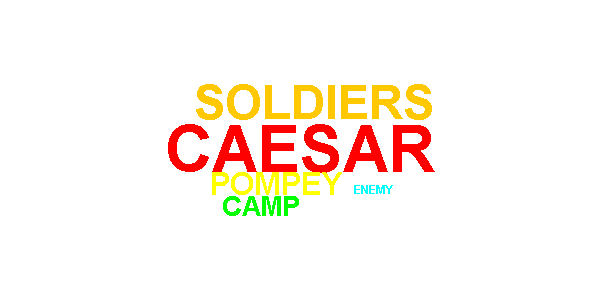
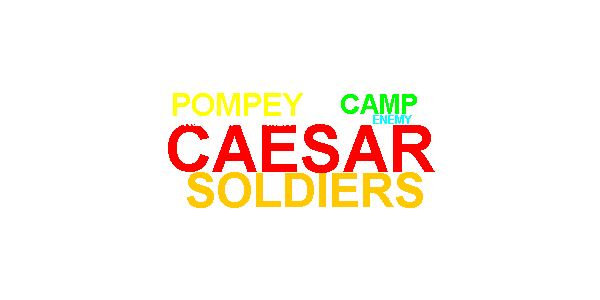
+big_O finished

Changed region(s): [[0.27, 0.27, 0.72, 0.42], [0.3, 0.57, 0.72, 0.72]]

diff --git a/Runner.java b/Runner.java
@@ -1,38 +1,35 @@
+/*
+Author: Eoin Wilkie
+Class information:
+    Runner class contains the main method for the program.
+    Contain a HashMap which is assigned values from the FileInfo Class, this Map will then be reduced in size to the users requested word cloud size.
+    This array is then passed through the WordCloudCreator Class to create the word cloud.
+*/
+
+//ADD PACKAGE HERE
+
 import java.util.Map.Entry;
-
 import java.util.Map;
+import java.util.HashMap;
 
-public class HelloWorld{
+public class Runner{
     public static void main(String[] args){
-        System.out.println("HelloWorld");
-
-
-        java.util.Map<String, Integer> frequencyTable = new java.util.HashMap<String, Integer>();
-
+        int i = 0;
+        Map<String, Integer> frequencyTable = new HashMap<String, Integer>();
         WordCloudCreator wcg;
         WCGmenu menu = new WCGmenu();
-        //menu.displayMenu();
-        menu.displayTestMenu();
+        
+        //menu.displayTestMenu();
+        menu.displayMenu();
+
+        Word[] words = new Word[menu.maxWords];
 
         FileInfo file = new FileInfo(menu.getFileIn(), TableFunctions.getFullTable(frequencyTable));
         frequencyTable = TableFunctions.getFullTable(frequencyTable);
         file.readFile();
-        //menu.frequencyTable = menu.getShortTable();
-        frequencyTable = TableFunctions.sortTable(frequencyTable);
+        //frequencyTable = TableFunctions.sortTable(frequencyTable);
         frequencyTable = TableFunctions.getShortTable(frequencyTable, menu.getMaxWords());
 
-        //can convert String map to <Word, Integer> map, to carry weight for img creation
-        //wordCount will no longer be required, but weight will be. Weight algorithm can be placed elsewhere.
-
-        //used to determine which % the word should fall into
-        //eg: index 0 is highest, will be assigned size/color to match
-        int i = 0;
-
-        Word[] words = new Word[menu.maxWords];
-        
-        //requires test and ? fix
-
-        
             //Big-O running time: O(1) 
             //It is my understanding that 0(1) represents a constant value, where as 0(n) represenst the number of elements in a structure
             //This floop will run as many times as was input by the user at the menu screen, which is significantly less than the frequencyTables elements

diff --git a/Word.java b/Word.java
@@ -1,5 +1,19 @@
-import java.awt.*;
+/*
+Author: Eoin Wilkie
+Class information:
+    Words are converted to Word Class objections before being placed on the word cloud, this class calculates a weight value for the word within the word cloud,
+    which determine the size the word will display on the word cloud. It also creates a Font for the image, which is the image placed on the word cloud.
+    Font metrics are also calculated which are used to determine the size ofthe image, this is used within the collisionCheck method ensure that words on the word cloud do not overlap.
 
+    Note: factor function is used to determine the word sizes on the word cloud, this divides the words into a number between 1-5, 5 being the largest.
+        Factor value is based on the highWordCount, if the change in factor from 1 word to the next is too large, the highWordCount will be assigned the value of the
+        first of these 2 words for further calculations, this ensures there should be representation in each of the values and the words will gradually descend in value
+        as opposed to having 1 large word and the rest of the words all being the minimun size available.
+*/
+
+//ADD PACKAGE HERE
+
+import java.awt.*;
 
     //Big-O running time: O(1)
     //All functions here are manipulating one object, using the variables of that object in some capacity, there is no loops

diff --git a/WordCloudCreator.java b/WordCloudCreator.java
@@ -1,3 +1,13 @@
+/*
+Author: Eoin Wilkie
+Class information:
+    This class generates the word cloud from the Word[] with methods from the ImgPlacement Class.
+*/
+//*NOTE* Still some work to do here to ensure the program will run under some additional situations which may break it
+    //such as when too many words are added to the word cloud.
+
+//ADD PACKAGE HERE
+
 import java.awt.*;
 import java.awt.image.*;
 import javax.imageio.*;
@@ -12,6 +22,7 @@ public class WordCloudCreator {
     private static boolean first = true;
     private static boolean firstFill = false;
     private static boolean secondFill = false;
+    private static boolean endCheck = false;
 
     private Point imgSize = new Point(sizeX, sizeY);
     private Point point;
@@ -49,7 +60,7 @@ public class WordCloudCreator {
                     //System.out.println(words[i].collisionCheck(words[j]));  //should say true
 
                     if (words[i].collisionCheck(words[j])){
-                        fillCheck++;
+                        if(secondFill == false) fillCheck++;
                         collision = true;
                         //System.out.println("Reloop");
                         break;

diff --git a/ParserFile.java b/ParserFile.java
@@ -1,3 +1,13 @@
+/*
+Author: Eoin Wilkie
+Class information:
+    Implements Parser. Used to parse files. Words are filterd by the following:
+        ragex: "[\\p{Punct}\\s]+", the ignore list obtained from the IgnoreWords Class and by size, anything words which contain less than 2 characters are eliminated.
+    File is read and words are added to a Map, if the Map contains the word then the value is incremented.
+*/
+
+//ADD PACKAGE HERE
+
 import java.io.BufferedReader;
 import java.io.FileReader;
 import java.io.FileNotFoundException;
@@ -16,7 +26,7 @@ public class ParserFile implements Parser{
         //as for the file reading, it starts at the begining and moved to the end inspecting each character element along the way
     public  void parse(String fileIn, Map<String, Integer> frequencyTable){
         String[] words;     //unsure if a different data structure will improve this, the word[] must start at begining and iterate over each element
-        String delimiters = "[\\p{Punct}\\s\\n]+";
+        String delimiters = "[\\p{Punct}\\s]+";
         
 		Set<String> ignoreWords = new IgnoreWords("ignorewords.txt").getIgnoreWords();
 		String line;

diff --git a/IgnoreWords.java b/IgnoreWords.java
@@ -1,3 +1,11 @@
+/*
+Author: Eoin Wilkie
+Class information:
+    This class creates the list of ignore words. Values are assigned to a TreeSet, values are read from a file and set to upper case.
+*/
+
+//ADD PACKAGE HERE
+
 import java.io.BufferedReader;
 import java.io.FileReader;
 import java.io.FileNotFoundException;
@@ -38,6 +46,7 @@ public final class IgnoreWords{
         try {
             br = new BufferedReader(new FileReader(this.getIgnoreFile()));
 
+            //while ((line = br.readLine()) != null) {
             while ((line = br.readLine()) != null) {
                 sbIgnoreWords.setLength(0);
                 sbIgnoreWords.append(line.toUpperCase()); 

diff --git a/ParserHtml.java b/ParserHtml.java
@@ -1,3 +1,13 @@
+/*
+Author: Eoin Wilkie
+Class information:
+    Implements Parser. Used to parse websites. Words are filterd by the following:
+        ragex: tagsTable/StringBuilder tags, the ignore list obtained from the IgnoreWords Class.
+    File is read and words are added to a Map, if the Map contains the word then the value is incremented.
+*/
+
+//ADD PACKAGE HERE
+
 import java.util.Map;
 import java.io.BufferedReader;
 import java.io.InputStreamReader;

diff --git a/TableFunctions.java b/TableFunctions.java
@@ -1,3 +1,12 @@
+/*
+Author: Eoin Wilkie
+Class information:
+    This class contains functions to manipulate the data held in a Map<String, Integer> in order to return 
+*/
+//*NOTE* currently using a LinkedHashMap to allow for an ordered Map, should be changed to a different data structure. Priority?
+
+//ADD PACKAGE HERE
+
 import java.util.Collections;
 import java.util.List;
 import java.util.LinkedList;

diff --git a/FileInfo.java b/FileInfo.java
@@ -1,3 +1,13 @@
+/*
+Author: Eoin Wilkie
+Class information:
+    This class consists of functions to manipulate an input file for the word cloud generation
+    Type of input file will be identified(www. or file) and,
+    the readFile() calls the Parser Class and assigns the words and frequency of these words to a map.
+*/
+
+//ADD PACKAGE HERE
+
 import java.util.Map;
 
 public class FileInfo{

diff --git a/WCGmenu.java b/WCGmenu.java
@@ -1,3 +1,12 @@
+/*
+Author: Eoin Wilkie
+Class information:
+    This Class provides the console manu for user input. Allows the user to input file/website, wordCloud size and an output name for the word cloud.
+    A second menu is provided for test purposes.
+*/
+
+//ADD PACKAGE HERE
+
 import java.util.*;
 import java.io.*;
 import java.util.Map.Entry;

diff --git a/Parser.java b/Parser.java
@@ -1,3 +1,11 @@
+/*
+Author: Eoin Wilkie
+Class information:
+    Parser Interface
+*/
+
+//ADD PACKAGE HERE
+
 import java.util.Map;
 
 public interface Parser{
